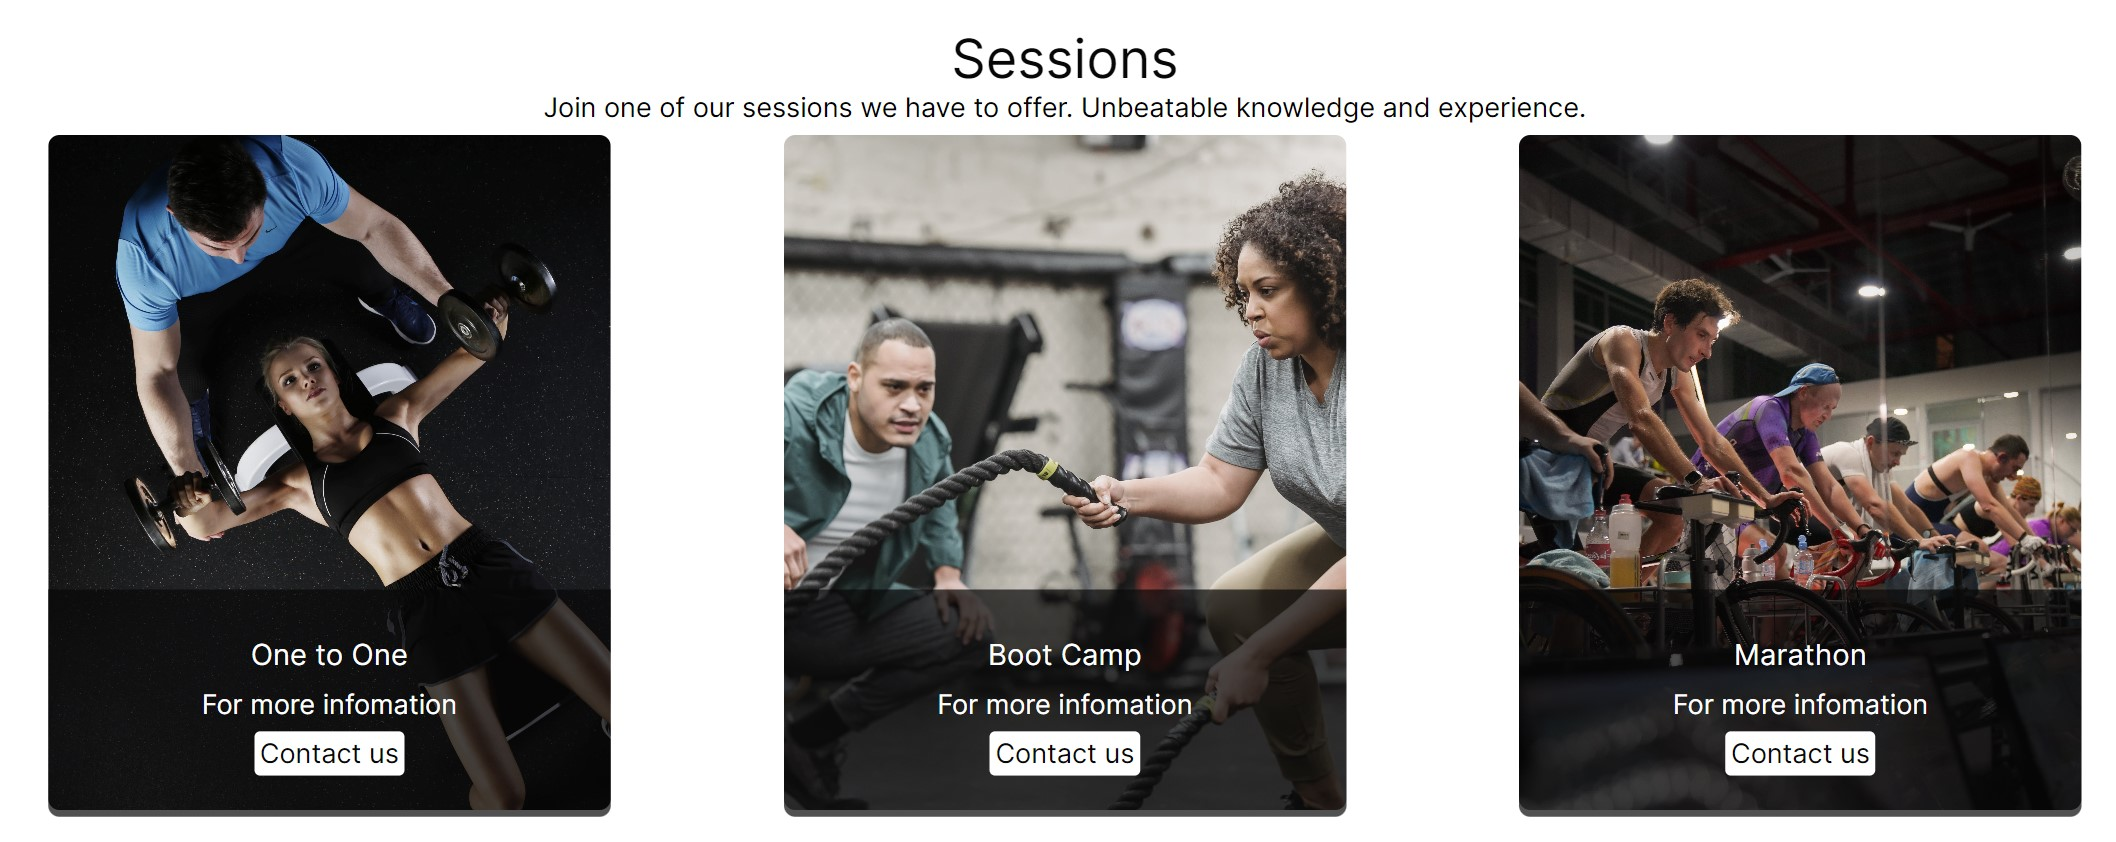
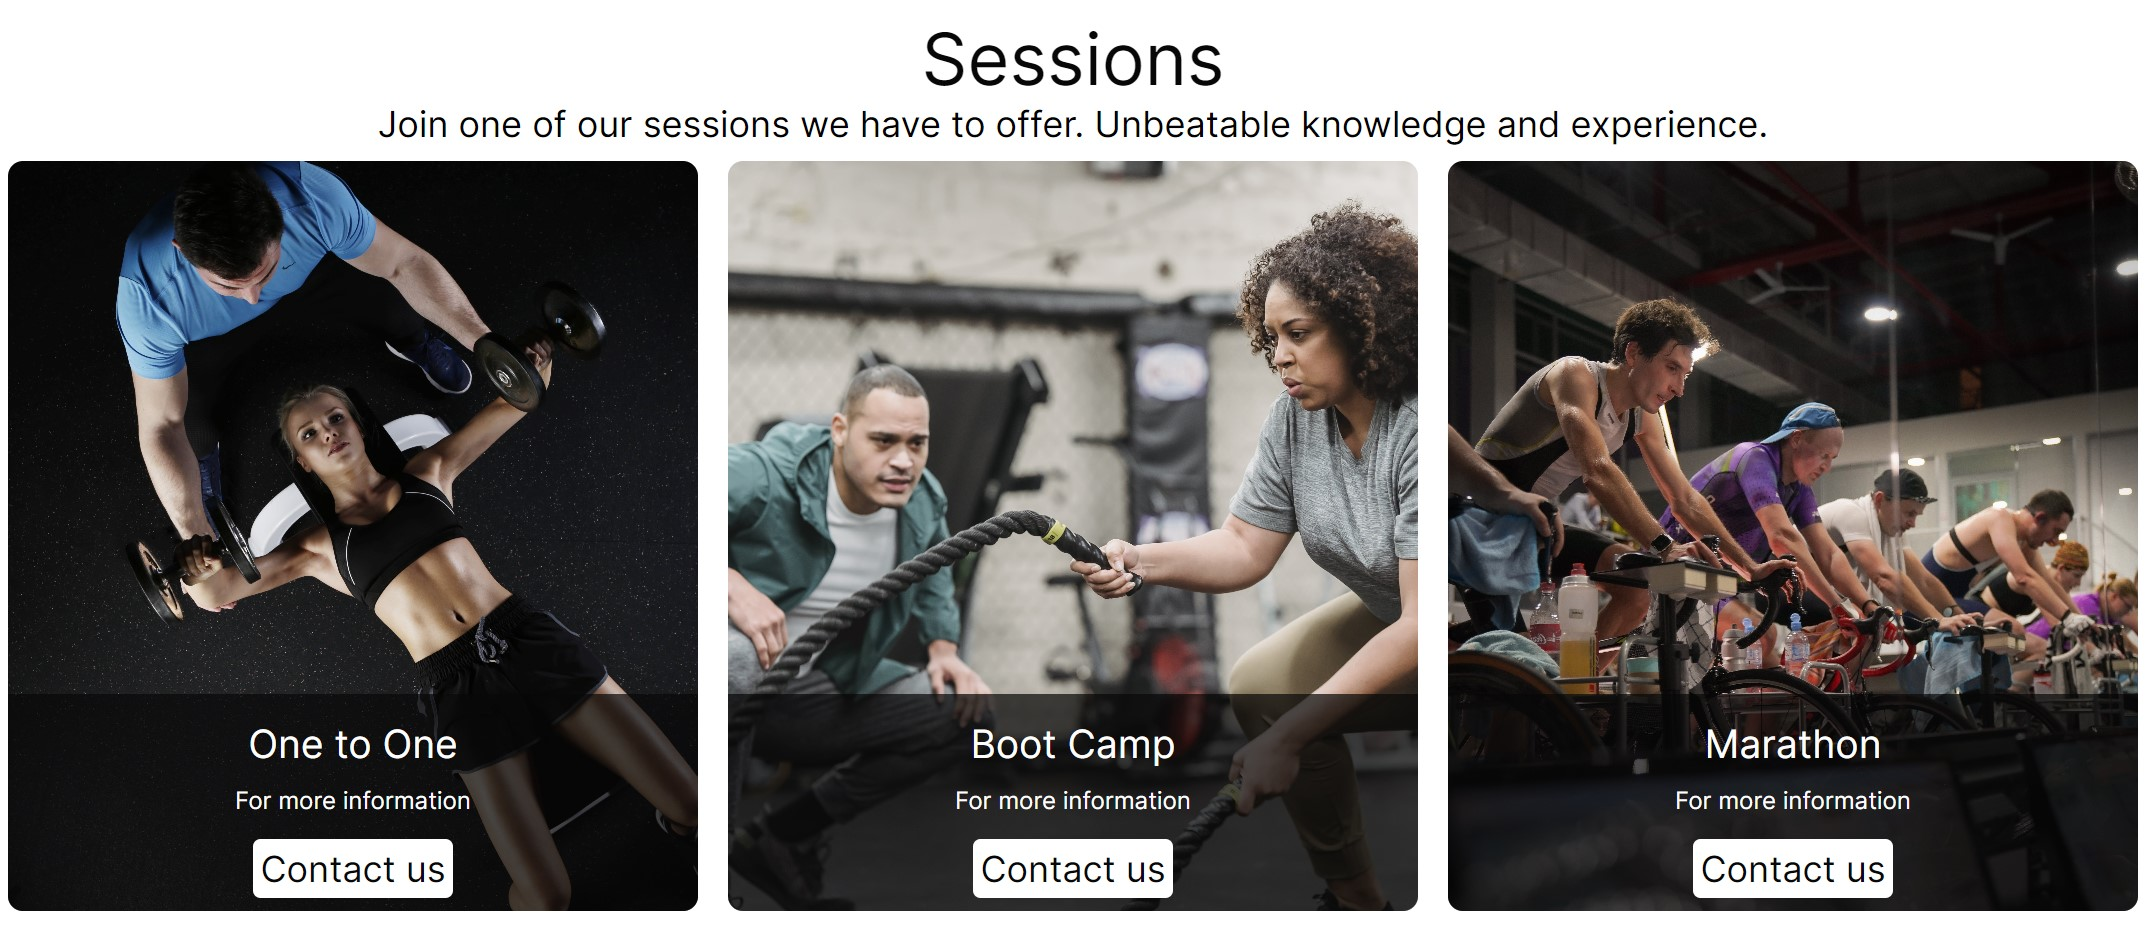
Spell Check and final review

diff --git a/sessions.html b/sessions.html
@@ -68,7 +68,7 @@
                     <div class="bottom-card-highlight">
                         <div class="card-content">
                             <h3>One to One</h3>
-                            <p class="white-font">For more infomation</p>
+                            <p class="white-font">For more information</p>
                             <div class="button">
                                 <a href="contact.html" class="sign-up-now">Contact us</a>
                             </div>
@@ -84,7 +84,7 @@
                     <div class="bottom-card-highlight">
                         <div class="card-content">
                             <h3>Boot Camp</h3>
-                            <p class="white-font">For more infomation</p>
+                            <p class="white-font">For more information</p>
                             <div class="button">
                                 <a href="contact.html" class="sign-up-now">Contact us</a>
                             </div>
@@ -99,7 +99,7 @@
                     <div class="bottom-card-highlight">
                         <div class="card-content">
                             <h3>Marathon</h3>
-                            <p class="white-font">For more infomation</p>
+                            <p class="white-font">For more information</p>
                             <div class="button">
                                 <a href="contact.html" class="sign-up-now">Contact us</a>
                             </div>

diff --git a/contact.html b/contact.html
@@ -76,7 +76,7 @@
             <!-- Contact Image -->
             <div class="contact-img">
                 <img src="assets/images/Smiling-Woman-In-Active-Wear.jpg"
-                    alt="Simling Women on the phone in active wear">
+                    alt="Smiling Women on the phone in active wear">
             </div>
         </section>
         <!-- Location Section -->
@@ -92,11 +92,11 @@
             </div>
             <!-- Contact Details -->
             <div class="contact-details">
-                <p><b>Telephone:</b><br>+44 12345 67890</p>
+                <p><i class="fa-solid fa-phone"></i><b> Telephone:</b><br>+44 12345 67890</p>
                 <br>
-                <p><b>Email:</b><br>contact@feelgoodgym.co.uk</p>
+                <p><i class="fa-solid fa-envelope"></i><b> Email:</b><br>contact@feelgoodgym.co.uk</p>
                 <br>
-                <p><b>Address:</b><br>100 London Street<br>London<br>London<br>L12 34N</p>
+                <p><i class="fa-solid fa-map-pin"></i><b> Address:</b><br>100 London Street<br>London<br>London<br>L12 34N</p>
             </div>
         </section>
     </main>

diff --git a/about.html b/about.html
@@ -67,7 +67,7 @@
                     <div class="bottom-card-highlight">
                         <div class="card-content">
                             <h3>Fun, Fit, Friendly</h3>
-                            <p class="white-font">Friendly atmosphere where we all have the same goal; <br> To Feel Great in a Gym!</p>
+                            <p class="white-font">Friendly atmosphere where we all have the same goal; <br> To Feel Good in a Gym!</p>
                         </div>
                     </div>
                 </div>

diff --git a/assets/css/style.css b/assets/css/style.css
@@ -601,6 +601,8 @@ b {
   /* Contact Details */
   .contact-details {
     width: 50%;
+    text-align: left;
+    margin-left: 20px ;
   }
 
 }

diff --git a/README.md b/README.md
@@ -4,7 +4,7 @@
 
 <div align="center"><img src="assets/images/Feel-Good-Gym-Am-I-Responsive.jpg" alt="Feel Good Gym Am I Responsive Image"></div>
 
-[Feel Good Gym](https://joeyip13.github.io/Project-1-HTML-CSS/index.html) is designed as a portfolio for a gym website. Its goal is to highlight the gym and to create a motivation feel for wanting to sign up and become a member of at the gym. 
+[Feel Good Gym](https://joeyip13.github.io/Project-1-HTML-CSS/index.html) is designed as a portfolio for a gym website. Its goal is to highlight the gym and to create a motivational feel for wanting to sign up and become a member of the gym. 
 
 ## Table of Contents 
 
@@ -113,12 +113,12 @@ The Business Goals of Feel Good Gym and Training are:
 
 ### User Goals 
 User Goals are: 
-- Display a clean easy to navigate wesbite. 
+- Display a clean easy to navigate website. 
 - Easy to find pricing structure for signing up.
 - What unique courses/sessions the gym has to offer.  
 
 ### User Stories
-1. As a user interested in working out at a gym, I expect to see a easy to ready pricing structure.
+1. As a user interested in working out at a gym, I expect to see an easy to ready pricing structure.
 0. If I was to sign up and become a member, I expect to know where.
 0. Location of the gym and contact details should I have further questions about the gym. 
 0. Some clear photos of the gym facilities.
@@ -136,11 +136,11 @@ For Mobile:
 <div><img src="assets/images/Feel-Good-Gym-Design4.jpg" alt="Feel Good Gym Design on Figma"></div>
 
 ### Logo
-Adobe Express was used to create the logo. 
+Adobe Express was used to create the logo. From my prespective, I like the way visual images can instantly convey what a website is about. This is why I decided to create a logo of representation of Feel Good Gym and Training.   
 <div><img src="assets/images/Feel-Good-Logo-Design2.jpg" alt="Feel Good Gym Logo Design on Adobe Express"></div>
 
 ### Fonts 
-- Primary font was Inter 400. I chose this font because it showed a neutral, plain but informative. This font also worked well against the color scheme. 
+- Primary font was Inter 400. I chose this font because it showed a neutral, plain but informative feel. This font also worked well against the colour scheme. 
 <div><img src="assets/images/Google-Fonts-Inter-400.jpg" alt="Google Fonts Inter 400"></div>
 
 ### Icons
@@ -152,17 +152,17 @@ Adobe Express was used to create the logo.
 
 ### Colors 
 
-- I wanted the site to maintain a minimal aesthetic, colors are very basic and clean for highlighting the photos.
-The primary color used is black. With some contrasting grey which helps highlight certain areas of content on the webpage. White was used to offset the black. The use of the colors was to help with the overall layout of the page, initially on desktop it was to break up different sections of the page. 
-- Text was used either black or white depending on the back ground color of the page. I wanted it to be a good contrast between the pages. 
+- I wanted the site to maintain a minimal aesthetic, colours are very basic and clean for highlighting the photos.
+The primary colour used is black. With some contrasting grey which helps highlight certain areas of content on the webpage. White was used to offset the black. The use of the colours was to help with the overall layout of the page, initially on desktop it was to break up different sections of the page. 
+- Text was used either black or white depending on the back ground colour of the page. I wanted it to be a good contrast between the pages. 
 
 <div align="center"><img src="assets/images/colors.jpg" alt="Color pallete" style="border: 1px solid white"></div>
 
 ### Images
 
-<div align="center"><img src="assets/images/photos.jpg" alt="Images"></div>
+<div align="center"><img src="assets/images/images.jpg" alt="Images"></div>
 
-- All images are taken from Pexels. These images are consistent in style and color to the website. 
+- All images are taken from Pexels. These images are consistent in style and colour to the website. 
 - Images are responsive. For desktop they align in a row across the desktop and as the screen becomes smaller the images stack ontop of one another. 
 
 ### Styling 
@@ -181,11 +181,12 @@ The primary color used is black. With some contrasting grey which helps highligh
 
 - Featured on all five pages, the full responsive navigation bar includes links to the Logo, About, Memberships, Sessions, Contact page and is identical in each page to allow for easy navigation.
 - This section will allow the user to easily navigate from page to page across all devices without having to revert back to the previous page via the ‘back’ button.
-- The Navigation Bar is simple keeping to the theme of website. 
+- The Navigation Bar is simple keeping to the theme of the website. 
 - Each link is categorised for easy to navigate through the website. 
 - The Navigation bar will highlight when the cursor is hovered over the link for a nice user experience.
 - The Navigation text will highlight bold when on that particular page, to identify which page the current user is on. 
 - For Mobile the logo will remain central on top of the screen and the nav bar will stack below for the user to easily scroll through with one hand. 
+- I used CSS Flexbox in the navigation bar in the media queries to give a responsive navigation bar.
 
 ### Footer
 <div align="center">
@@ -203,18 +204,20 @@ The primary color used is black. With some contrasting grey which helps highligh
     <img src="assets/images/index-page.jpg" alt="Index page Hero Section">
 </div>
 
-- The index page includes a image and a content box aligned next to each with a link that will take them directly to the contact page to sign up.
+- The index page includes an image and a content box aligned next to each other with a link that will take them directly to the contact page to sign up.
 - This displays a clear message from what the website is about. 
+- I used CSS Flexbox here to help center the content in the center of the background container. 
 
 ### About Page
 <div align="center">
     <img src="assets/images/about-us.jpg" alt="About us page">
 </div>
 
-- Three card layout is used to display the images and content used to decribe "about us".
-- A black transparent background behind the card's content helps emphasize the content. 
+- Three card layout is used to display the images and content used to describe "about us".
+- A black transparent background behind the card's content helps emphasise the content. 
 - The three cards are responsive and will stack ontop of another when the screen size becomes smaller for mobile viewing.
-- Images are used are consistent with the subject content. 
+- Images used are consistent with the subject content. 
+- I used CSS Flexbox in the About section to align the cards in a row and give a responsive layout.
 
 ### Memberships Page
 <div align="center">
@@ -231,7 +234,7 @@ The primary color used is black. With some contrasting grey which helps highligh
 </div>
 
 - Three card layout again is used to display the content cards. This is keeping with the same design as the About Us and Memberships page. 
-- A black transparent background behind the card's content helps emphasize the content. 
+- A black transparent background behind the card's content helps emphasise the content. 
 - Each card has a link to the contact page.
 - The three cards are responsive and will stack ontop of another when the screen size becomes smaller for mobile viewing.
 
@@ -240,7 +243,7 @@ The primary color used is black. With some contrasting grey which helps highligh
     <img src="assets/images/contact-page.jpg" alt="Contact page">
 </div>
 
-- This page will allow the user to get signed up to Feel Good Gym and Training or take them to the contact page for more infomaation. 
+- This page will allow the user to get signed up to Feel Good Gym and Training or take them to the contact page for more information. 
 - The user will be asked to submit their full name and email address.
 - Page is broken down into two sections the contact form section and the location section. I've used a black back ground for the contact form section and a white background for the location section for a much better contrast on the page. 
 - The interactive location map highlights the location of the gym so users can easy find the gym.
@@ -259,6 +262,7 @@ The primary color used is black. With some contrasting grey which helps highligh
 
 - HTML has been validated with [W3C HTML5 Validator](https://validator.w3.org/).
 - CSS has been validated with [W3C CSS Validator](https://jigsaw.w3.org/css-validator/)
+- Links checked with [W3C Link Checker](https://validator.w3.org/checklink)
 
 ## PageSpeed Insights
 
@@ -292,9 +296,13 @@ The live link can be found here - https://github.com/JoeYip13/Project-1-HTML-CSS
 
 # Credits 
 
-- W3 Schools - https://www.w3schools.com/
+- Code Institute - [Code Institute](https://github.com/Code-Institute-Org/gitpod-full-template)
+I used Code Institute gitpod full template and HTML and CSS Essentials in the Full Stack Development course.
+- W3 Schools - [W3 Schools](https://www.w3schools.com/)
 - README.md for the template - https://github.com/Code-Institute-Solutions/readme-template
 - Rory Patrick Sheridan README.md to help with structure content in my README.md - https://github.com/Ri-Dearg/horizon-photo/blob/master/README.md#page-elements
+- Kevin Powell on YouTube - [Kevin Powell](https://www.youtube.com/@KevinPowell)
+- Web Dev Simplified on YouTube - [Web Dev Simplified](https://www.youtube.com/@WebDevSimplified)
 
 ## Content 
 
